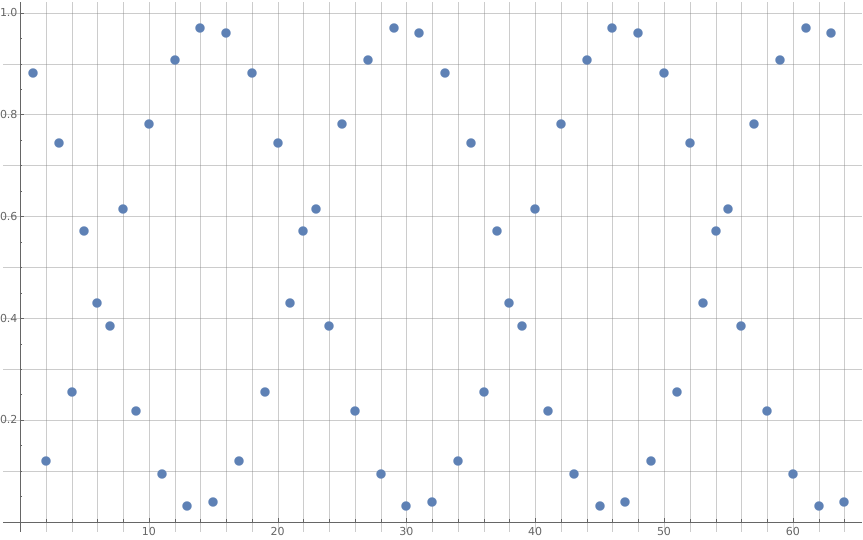
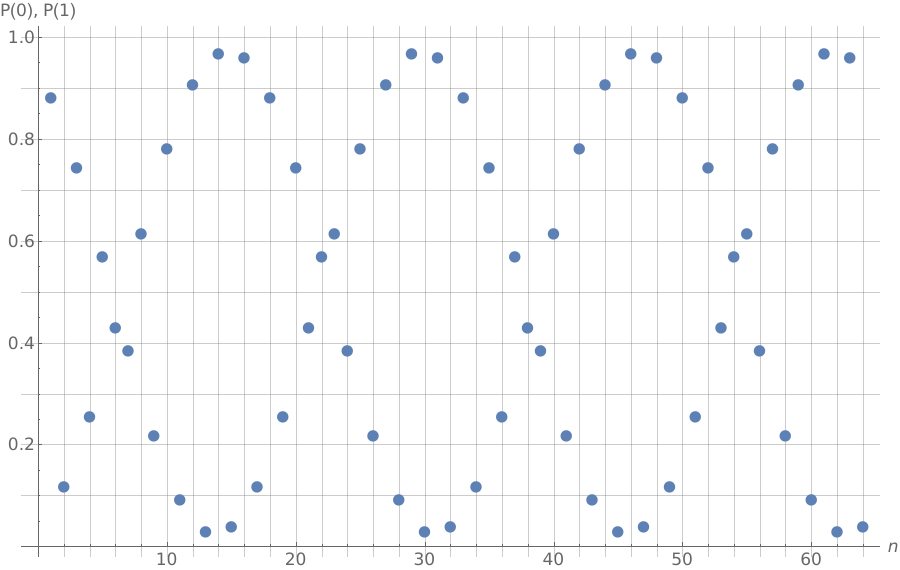
axis labels

Changed region(s): [[0.0, 0.0, 1.0, 1.0]]

diff --git a/tex/appendix/nb/wolfram/n-level.tex b/tex/appendix/nb/wolfram/n-level.tex
@@ -1,31 +1,31 @@
 \section{Page-Wootters model: \texttt{NN}-level clock $+$ $2$-level system}
 
-\begin{lstlisting}
+\begin{Verbatim}
 NN := 32
-\end{lstlisting}
+\end{Verbatim}
 
-\begin{lstlisting}
+\begin{Verbatim}
 T := DiagonalMatrix[Range[0,NN-1]]
-\end{lstlisting}
+\end{Verbatim}
 
-\begin{lstlisting}
+\begin{Verbatim}
 F := FourierMatrix[NN]
-\end{lstlisting}
+\end{Verbatim}
 
 For simplicity, $\hbar = 1$, there's no ``characteristic frequency'' $\omega$,
 and we ignore the dimensional term in front of \eqref{eq:SI_Fourier:T}:
 
-\begin{lstlisting}
+\begin{Verbatim}
 \[CapitalOmega] := F.T.F\[ConjugateTranspose] 
-\end{lstlisting}
+\end{Verbatim}
 
 Hamiltonian in "ordinary" space
-\begin{lstlisting}
+\begin{Verbatim}
 Hs := \[ImaginaryI]{{0, 1}, {-1, 0}}
-\end{lstlisting}
-\begin{lstlisting}
+\end{Verbatim}
+\begin{Verbatim}
 MatrixForm[Hs]
-\end{lstlisting}
+\end{Verbatim}
 \[
   \left(
     \begin{array}{cc}
@@ -37,15 +37,15 @@ MatrixForm[Hs]
 
 Matrix representation of \cite[Eq. 1]{Lloyd:Time}.
 We turn it into numeric (\verb!N[ ]!) as treating  it symbolically onwards would be unfeasible:
-\begin{lstlisting}
+\begin{Verbatim}
 J := N[KroneckerProduct[\[CapitalOmega],IdentityMatrix[2]] + KroneckerProduct[IdentityMatrix[NN],Hs]]
-\end{lstlisting}
-\begin{lstlisting}
+\end{Verbatim}
+\begin{Verbatim}
 Chop[Eigenvalues[J]]
 
 Out[ ] = {32., 31., 30., 30., 29., 29., 28., 28., 27., 27., 26., 26., 25., 25., 24., 24., 23., 23., 22., 22., 21., 21., 20., 20., 19., 19., 18., 18., 17., 17., 16., 16., 15., 15., 14., 14., 13., 13., 12., 12., 11., 11., 10., 10., 9., 9., 8., 8., 7., 7., 6., 6., 5., 5., 4., 4., 3., 3., 2., 2., 1., 1., -1., 0}
-\end{lstlisting}
-\begin{lstlisting}
+\end{Verbatim}
+\begin{Verbatim}
 Eigenvalues[J][[40]]
 
 Out[ ] = 12.
@@ -78,110 +78,131 @@ probabilityB
 
 Out[ ]= {0.881533, 0.118467, 0.744511, 0.255489, 0.570264, 0.429736, 0.38532, 0.61468, 0.217835, 0.782165, 0.0933066, 0.906693, 0.0306941, 0.969306, 0.0395291, 0.960471, 0.118467, 0.881533, 0.255489, 0.744511, 0.429736, 0.570264, 0.61468, 0.38532, 0.782165, 0.217835, 0.906693, 0.0933066, 0.969306, 0.0306941, 0.960471, 0.0395291, 0.881533, 0.118467, 0.744511, 0.255489, 0.570264, 0.429736, 0.38532, 0.61468, 0.217835, 0.782165, 0.0933066, 0.906693, 0.0306941, 0.969306, 0.0395291, 0.960471, 0.118467, 0.881533, 0.255489, 0.744511, 0.429736, 0.570264, 0.61468, 0.38532, 0.782165, 0.217835, 0.906693, 0.0933066, 0.969306, 0.0306941, 0.960471, 0.0395291}
 
-ListPlot[probability, GridLines ->{Range[0,NN*2, 2], Range[0, 1, 0.1]}, ImageSize->Large]
-\end{lstlisting}
-\begin{figure}[h]
+ListPlot[probability,
+  GridLines ->{Range[0,NN*2, 2], Range[0, 1, 0.1]},
+  AxesLabel->{n, "P(0), P(1)"},
+  LabelStyle->Directive[16],
+  PlotMarkers->{Automatic, 16},
+  ImageSize->1024
+]
+\end{Verbatim}
+\begin{figure}[!h]
   \centering
-  \includegraphics[width=0.75\textwidth]{img/N32.png}
+  \includegraphics[width=.75\textwidth]{img/N32.png}
   \caption[(from notebook)]{P-W ``evolution'' for $\hat{\mathbb{J}}$ eigenvalue $=12$}
 \end{figure}  
-\begin{lstlisting}
-ListPlot[probabilityB, GridLines ->{Range[0,NN*2, 2], Range[0, 1, 0.1]}, ImageSize->Large]
-\end{lstlisting}
-\begin{figure}[h]
+\begin{Verbatim}
+
+ListPlot[probabilityB,
+  GridLines ->{Range[0,NN*2, 2], Range[0, 1, 0.1]},
+  AxesLabel->{n, "P(0), P(1)"},
+  LabelStyle->Directive[16],
+  PlotMarkers->{Automatic, 16},
+  ImageSize->1024
+]
+\end{Verbatim}
+\begin{figure}[!h]
   \centering
-  \includegraphics[width=0.75\textwidth]{img/N32-B.png}
+  \includegraphics[width=.75\textwidth]{img/N32-B.png}
   \caption[(from notebook)]{P-W ``evolution'' for $\hat{\mathbb{J}}$ eigenvalue $=11$}
 \end{figure}
 
 \subsection{Consistency of PW with ordinary QM (discrete approximation)}
 
-\begin{lstlisting}
+\begin{Verbatim}
 psi0 :=  chosenEigenvectorNormalizedB[[{1,2}]]
 
 psi0
 
 Out[ ] = {-0.938878+0.00640243 I,0.299377 -0.169824 I}
-\end{lstlisting}
+\end{Verbatim}
 
-\begin{lstlisting}
+\begin{Verbatim}
 psi[t_] := MatrixExp[-I Hs t, psi0 ]
 
 psi[t]
 
 {(-0.938878+0.00640243 I) Cos[t]+(0.299377 -0.169824 I) Sin[t],(0.299377 -0.169824 I) Cos[t]+(0.938878 -0.00640243 I) Sin[t]}
-\end{lstlisting}
+\end{Verbatim}
 
-\begin{lstlisting}
+\begin{Verbatim}
 (Abs[psi[t]]^2)[[1]]
 
 Out[ ] = Abs[(-0.938878+0.00640243 I) Cos[t]+(0.299377 -0.169824 I) Sin[t]]^2
 
-Plot[Abs[(-0.938878+0.00640243 I) Cos[t]+(0.299377 -0.169824 I) Sin[t]]^2,{t,0,2\[Pi]}]
-\end{lstlisting}
-\begin{figure}[h]
+Plot[Abs[(-0.938878+0.00640243 I) Cos[t]+(0.299377 -0.169824 I) Sin[t]]^2, {t,0,2\[Pi]}
+  AxesLabel->{t, "P(0"},
+  LabelStyle->Directive[16],
+  ImageSize->900
+]
+\end{Verbatim}
+\begin{figure}[!h]
   \centering
   \includegraphics[width=0.75\textwidth]{img/probB_0.png}
   \caption[(from notebook)]{
     Schr{\"o}dinger evolution of
     $\qty|\braket{0}{\psi(t)}|^2$, $t \in (0, 2\pi) $
     picking the first two components of an eigenvector of $\hat{\mathbb{J}}$
-    as the two components of $\psi(0)$ in ordinary Hilbert space.
+    as the two components of $\psi_{t=0}$ in ordinary Hilbert space.
     Related eigenvalue of $\hat{\mathbb{J}}$ is $11$
   }
 \end{figure}
 
-\begin{lstlisting}
+\begin{Verbatim}
 (Abs[psi[t]]^2)[[2]]
 
 Out[ ] = Abs[(0.299377 -0.169824 I) Cos[t]+(0.938878 -0.00640243 I) Sin[t]]^2
   
-Plot[Abs[(0.299377 -0.169824 I) Cos[t]+(0.938878 -0.00640243 I) Sin[t]]^2,{t,0,2\[Pi]}]  \end{lstlisting}
-\begin{figure}[h]
+Plot[Abs[(0.299377 -0.169824 I) Cos[t]+(0.938878 -0.00640243 I) Sin[t]]^2, {t,0,2\[Pi]}
+  AxesLabel->{t, "P(0"},
+  LabelStyle->Directive[16],
+  ImageSize->900
+]
+\end{Verbatim}
+\begin{figure}[!h]
   \centering
   \includegraphics[width=0.75\textwidth]{img/probB_1.png}
   \caption[(from notebook)]{
     Schr{\"o}dinger evolution of
     $\qty|\braket{1}{\psi(t)}|^2$, $t \in (0, 2\pi) $
     picking the first two components of an eigenvector of $\hat{\mathbb{J}}$
-    as the two components of $\psi_0$ in ordinary Hilbert space.
+    as the two components of $\psi_{t=0}$ in ordinary Hilbert space.
     Related eigenvalue of $\hat{\mathbb{J}}$ is $11$
   }
 \end{figure}
 
 \subsubsection{Complex evolution of $\psi$ (not just $\qty|\psi|^2$)}
-\begin{lstlisting}
+\begin{Verbatim}
 psi[t][[1]]
 
 Out[ ] = (-0.938878 +0.00640243 \[ImaginaryI]) Cos[t] + (0.299377 - 0.169824 \[ImaginaryI]) Sin[t]
-\end{lstlisting}
-\begin{lstlisting}
+\end{Verbatim}
+\begin{Verbatim}
 psi[t][[2]]
 
 Out[ ]= (0.299377 -0.169824 \[ImaginaryI]) Cos[t] + (0.938878 -0.00640243 \[ImaginaryI]) Sin[t]
-\end{lstlisting}  
+\end{Verbatim}  
 Real and imaginary part: let's do this manually ---please note index count is
 $1, 2$ (cells above)
 but refers, respectively, to computational base elements
 $\ket{0}, \ket{1}$ in ordinary Hilbert space.
-\begin{lstlisting}
+\begin{Verbatim}
 re0psi[t_] := (-0.938878) Cos[t]  + (0.299377) Sin[t]
 im0psi[t_] := (0.00640243) Cos[t] + (- 0.169824 ) Sin[t]
 re1psi[t_] := (0.299377) Cos[t]   + (0.938878) Sin[t]
 im1psi[t_] := (- 0.169824) Cos[t] + (- 0.00640243) Sin[t] 
-\end{lstlisting}
+\end{Verbatim}
 
-\begin{lstlisting}
+\begin{Verbatim}
 zAxis := ParametricPlot3D[{0,0,t}, {t,0,2\[Pi]}, PlotStyle->{Gray}]
 psi0plot := ParametricPlot3D[{re0psi[t], im0psi[t], t}, {t, 0, 2\[Pi]}, PlotStyle->{Red} ]
 psi1plot := ParametricPlot3D[{re1psi[t], im1psi[t], t}, {t, 0, 2\[Pi]}, PlotStyle->{Blue} ]
-\end{lstlisting}
+\end{Verbatim}
 
-\begin{lstlisting}
+\begin{Verbatim}
 Show[zAxis, psi0plot,psi1plot, ImageSize->Medium]
-\end{lstlisting}
-
-\begin{figure}[h]
+\end{Verbatim}
+\begin{figure}[!h]
   \centering
   \includegraphics[width=0.25\textwidth]{img/qubit-evo-schrod.png}
   \caption[(from notebook)]{
@@ -194,13 +215,13 @@ Show[zAxis, psi0plot,psi1plot, ImageSize->Medium]
   }
 \end{figure}
 
-\begin{lstlisting}
+\begin{Verbatim}
 pi = N[\[Pi]]
 
 3.14159
-\end{lstlisting}
+\end{Verbatim}
 
-\begin{lstlisting}
+\begin{Verbatim}
 rephased[k_] := chosenEigenvectorNormalizedB [[k]] * Exp[-\[ImaginaryI]*pi*11*(k-1)/NN]
 
 rephased1[k_] := chosenEigenvectorNormalizedB [[k]] * Exp[-\[ImaginaryI]*pi*11*(k-2)/NN]
@@ -216,12 +237,12 @@ Out[ ] = {{-0.938878,0.00640243,0.}, {-0.862432,-0.0268517,0.19635}, {-0.752844,
 scatterPoints1 = Map[scatter1, Range[2,2*NN, 2]]
 
 Out[ ] = {{0.299377,-0.169824,0.}, {0.47679,-0.16781,0.19635}, {0.635881,-0.159347,0.392699}, {0.770535,-0.144761,0.589049}, {0.875578,-0.124611,0.785398}, {0.946973,-0.0996728,0.981748}, {0.981977,-0.0709041,1.1781}, {0.979243,-0.0394105,1.37445}, {0.938878,-0.00640243,1.5708}, {0.862432,0.0268517,1.76715}, {0.752844,0.0590739,1.9635}, {0.614324,0.089026,2.15984}, {0.452196,0.115557,2.35619}, {0.27269,0.137647,2.55254}, {0.0827052,0.154447,2.74889}, {-0.110458,0.165312,2.94524}, {-0.299377,0.169824,3.14159}, {-0.47679,0.16781,3.33794}, {-0.635881,0.159347,3.53429}, {-0.770535,0.144761,3.73064}, {-0.875578,0.124611,3.92699}, {-0.946973,0.0996728,4.12334}, {-0.981977,0.0709041,4.31969}, {-0.979243,0.0394105,4.51604}, {-0.938878,0.00640243,4.71239}, {-0.862432,-0.0268517,4.90874}, {-0.752844,-0.0590739,5.10509}, {-0.614324,-0.089026,5.30144}, {-0.452196,-0.115557,5.49779}, {-0.27269,-0.137647,5.69414}, {-0.0827052,-0.154447,5.89049}, {0.110458,-0.165312,6.08684}}
-\end{lstlisting}
+\end{Verbatim}
 
-\begin{lstlisting}
+\begin{Verbatim}
 scatterPlot = ListPointPlot3D[scatterPoints, PlotStyle->{Red, PointSize[Large]}]
-\end{lstlisting}
-\begin{figure}[h]
+\end{Verbatim}
+\begin{figure}[!h]
   \centering
   \includegraphics[width=0.4\textwidth]{img/scatterplot0.png}
   \caption[(from notebook)]{
@@ -235,10 +256,10 @@ scatterPlot = ListPointPlot3D[scatterPoints, PlotStyle->{Red, PointSize[Large]}]
   }
 \end{figure}
 
-\begin{lstlisting}
+\begin{Verbatim}
 scatterPlot1 = ListPointPlot3D[scatterPoints1, PlotStyle->{Blue, PointSize[Large]}]
-\end{lstlisting}
-\begin{figure}[h]
+\end{Verbatim}
+\begin{figure}[!h]
   \centering
   \includegraphics[width=0.4\textwidth]{img/scatterplot1.png}
   \caption[(from notebook)]{
@@ -252,10 +273,10 @@ scatterPlot1 = ListPointPlot3D[scatterPoints1, PlotStyle->{Blue, PointSize[Large
   }
 \end{figure}
 
-\begin{lstlisting}
+\begin{Verbatim}
 Show[zAxis, psi0plot,psi1plot,scatterPlot, scatterPlot1, ImageSize->Large]
-\end{lstlisting}
-\begin{figure}[h]
+\end{Verbatim}
+\begin{figure}[!h]
   \centering
   \includegraphics[width=0.4\textwidth]{img/PWfit32.png}
   \includegraphics[width=0.6\textwidth]{img/PWfit32top.png}

diff --git a/tex/preamble.tex b/tex/preamble.tex
@@ -18,6 +18,11 @@
 \usepackage{epigraph}
 \usepackage{csquotes}
   \setlength{\epigraphwidth}{.6\textwidth}
+\usepackage{fancyvrb}
+  \fvset{
+    frame = single,
+    rulecolor=\color{lightgray}
+  }
 \usepackage{listings}
   \lstset{
     frame = single,
@@ -26,6 +31,7 @@
     commentstyle=\color{gray},
     keywordstyle=\color{blue},
     stringstyle=\color{red},
+    fancyvrb=true,
     breaklines=true,
     %identifierstyle=\color{green!40!black}
   }
